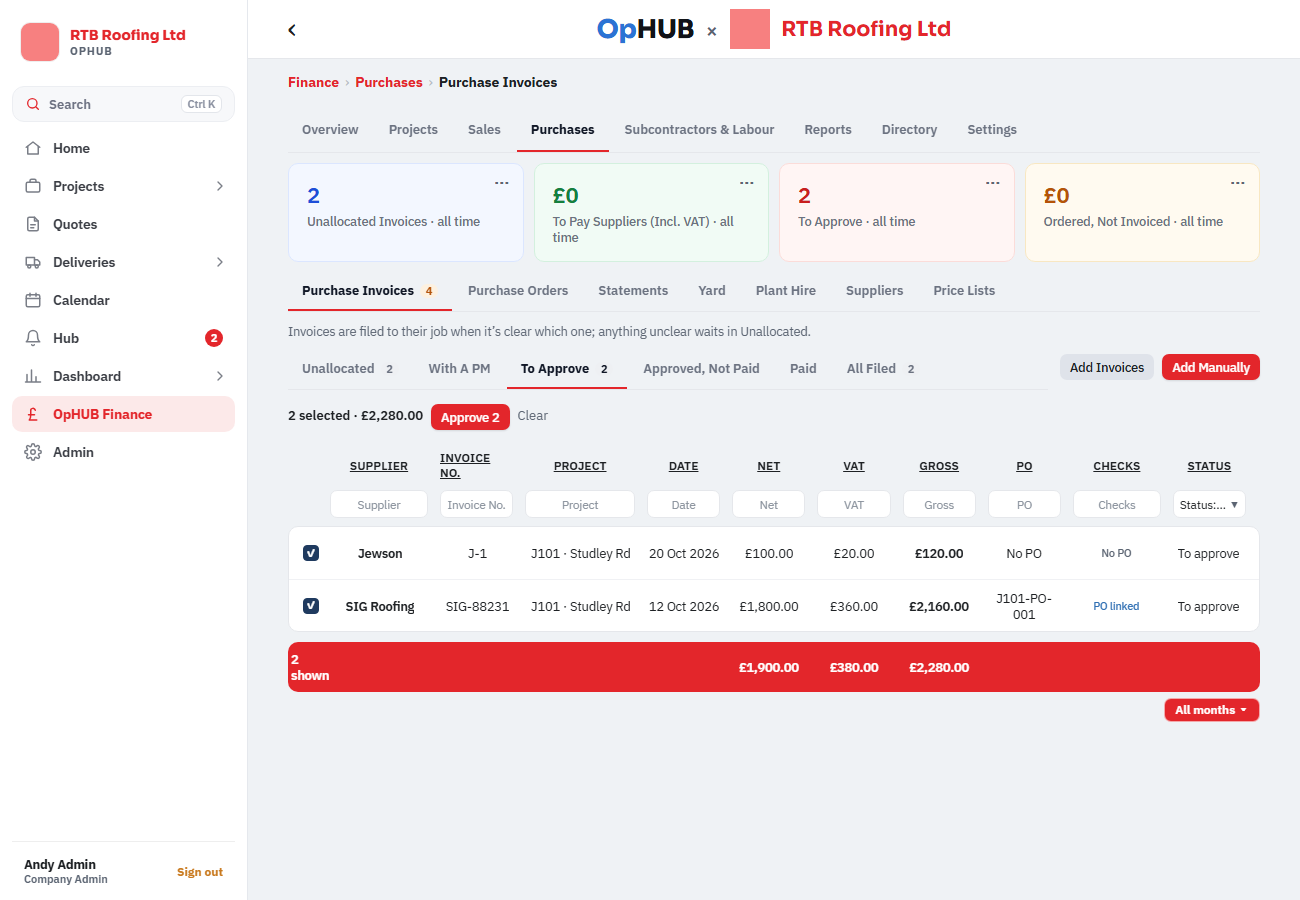
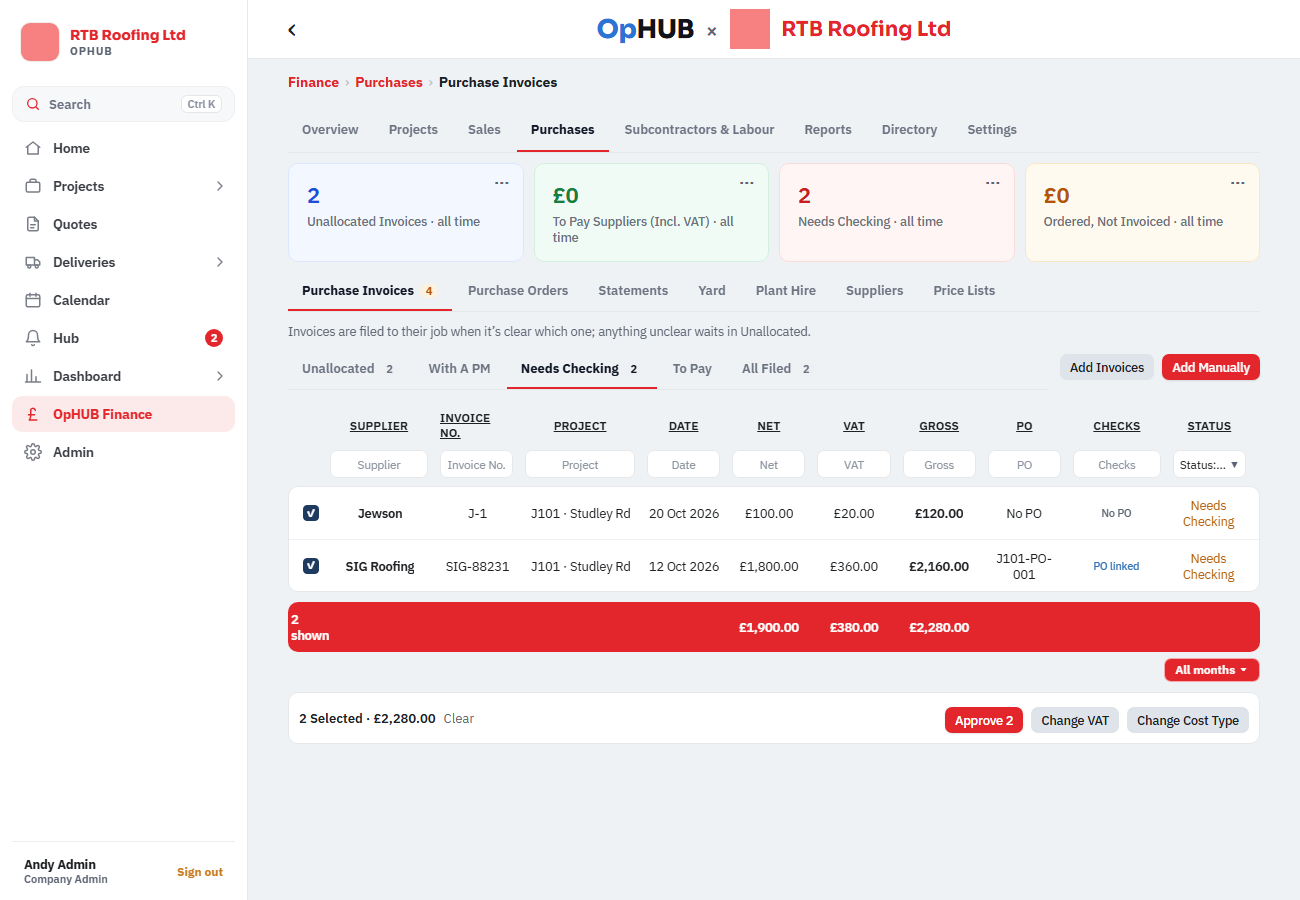
Purchase invoices (Andy, 5 Nov): no Paid tab; Status says Paid (Statement) once the invoice is on a reconciled supplier statement; tabs Needs Checking and To Pay; Status words Needs Checking / Query / Approved (Auto) / Paid. Tick boxes on every filed list, no Select All until one is ticked, then a b
Claude-Session: https://claude.ai/code/session_012KhfNvBEbifMJmPdX7yZfp

diff --git a/app-native/src/components/FinPurchases.tsx b/app-native/src/components/FinPurchases.tsx
@@ -1,5 +1,5 @@
 // Purchases lists (9219b renderFinPurchases): purchase orders, purchase
-// invoices (unallocated / with a PM / to approve / approved not paid / paid),
+// invoices (unallocated / with a PM / needs checking / to pay / all filed; paid shows in Status),
 // plant hire and suppliers — for the company or one project (siteId).
 // Inbox items are NOT read or filed automatically here while the Finance
 // trial is on (no inbox processing).
@@ -19,13 +19,13 @@ import { chooseAction, confirmAsk, useToast } from '@/components/toast';
 import { Button, Empty, Muted } from '@/components/ui';
 import { askDate } from '@/components/DateField';
 import * as DocumentPicker from 'expo-document-picker';
-import { fdb, selectAll } from '@/data/finance';
+import { fdb, selectAll, useFinSettings } from '@/data/finance';
 import { supabase } from '@/lib/supabase';
 import { setPinvPaid, setPinvStatus } from '@/data/finPurchase';
 import { useSites } from '@/data/sites';
 import { useAuth } from '@/lib/auth';
-import { PI_STATUS, poInvoiced } from '@/lib/rules/finBook';
-import { fdate, FIN_TRIAL_MSG, finBlocked, jobTag, money, plantCost, round2, today } from '@/lib/rules/finance';
+import { COST_CATS, PI_STATUS, poInvoiced } from '@/lib/rules/finBook';
+import { fdate, FIN_TRIAL_MSG, finBlocked, jobTag, money, plantCost, round2, today, vatList } from '@/lib/rules/finance';
 import { monthLabel, monthOf, monthsIn, valueTest } from '@/lib/rules/finFilters';
 import { base, radius, useDesk } from '@/theme/theme';
 
@@ -83,16 +83,26 @@ export function usePurchases(orgId: string | null | undefined, siteId?: string) 
     queryKey: ['finPurchases', orgId, siteId || ''], enabled: !!orgId,
     queryFn: async () => {
       const f = (q: Parameters<Parameters<typeof selectAll>[2]>[0]) => (siteId ? q.eq('site_id', siteId) : q.eq('org_id', orgId as string));
-      const [pinvs, pos, inbox, hires, suppliers] = await Promise.all([
+      const [pinvs, pos, inbox, hires, suppliers, stmts] = await Promise.all([
         selectAll<Row>('purchase_invoices', '*', f), selectAll<Row>('purchase_orders', '*', f),
         selectAll<Row>('fin_inbox', 'id,site_id,received_at,from_email,subject,extracted,stage,query_reason,comments,status,purchase_invoice_id,file_name', (q) => f(q).or('status.eq.new,and(status.eq.filed,purchase_invoice_id.is.null)')),
         selectAll<Row>('fin_plant_hires', '*', f), selectAll<Row>('suppliers', 'id,name,email', (q) => q.eq('org_id', orgId as string)),
+        selectAll<Row>('fin_statements', 'id,status,statement_date,reconciled_at,lines', (q) => q.eq('org_id', orgId as string).eq('status', 'reconciled')),
       ]);
+      // Paid when the supplier's statement it is on has been reconciled (Andy, 5 Nov 2026): no need to mark each one paid.
+      const onStmt: Record<string, string> = {};
+      stmts.forEach((st) => ((st.lines as Row[] | null) || []).forEach((l) => { if (l.match && !l.ignore && !String(l.match).startsWith('in:')) onStmt[l.match] = String(st.statement_date || String(st.reconciled_at || '').slice(0, 10)); }));
+      pinvs.forEach((p) => { if (!p.paid_on && onStmt[p.id]) p.stmt_paid = onStmt[p.id]; });
       return { pinvs: pinvs.sort((a, b) => String(b.invoice_date || '').localeCompare(String(a.invoice_date || ''))), pos: pos.sort((a, b) => String(b.created_at || '').localeCompare(String(a.created_at || ''))), inbox, hires, suppliers };
     },
   });
 }
 
+/** Paid by hand, or on a supplier statement that has been reconciled (Andy, 5 Nov 2026). */
+const isPaid = (i: Row) => !!i.paid_on || !!i.stmt_paid;
+/** The Status words (Andy, 5 Nov 2026): Needs Checking, Query, Approved (Auto when it approved itself), Paid. */
+const piWord = (i: Row) => (isPaid(i) ? (i.paid_on ? 'Paid' : 'Paid (Statement)') : i.status === 'to_approve' ? 'Needs Checking' : i.status === 'approved' && i.auto_approved ? 'Approved (Auto)' : PI_STATUS[i.status] || i.status);
+const piTone = (i: Row) => (isPaid(i) ? '#1E7A43' : i.status === 'query' ? '#C0392B' : i.status === 'to_approve' ? '#B35A00' : undefined);
 export function PurchasesLists({ tab, siteId, f: f0 }: { tab: 'orders' | 'invoices' | 'plant' | 'suppliers' | 'all'; siteId?: string; f?: string }) {
   const { me } = useAuth();
   const { data: sites = [] } = useSites();
@@ -121,6 +131,7 @@ export function PurchasesLists({ tab, siteId, f: f0 }: { tab: 'orders' | 'invoic
   });
   // Tick several to approve, or to mark paid (9219g finPiBulkApprove / finPiBulkPaid).
   const [picks, setSel] = useState<Set<string>>(new Set());
+  const { data: fset } = useFinSettings(me?.org_id);
   const toast = useToast();
   const qc = useQueryClient();
   const [upBusy, setUpBusy] = useState(false);
@@ -235,11 +246,11 @@ export function PurchasesLists({ tab, siteId, f: f0 }: { tab: 'orders' | 'invoic
   if (tab === 'invoices') {
     // Not read yet (uploaded or emailed, and while Finance is on trial nothing is read) count as unallocated too, to file by hand.
     const needJob = data.inbox.filter((i) => i.stage !== 'with_pm'), withPm = data.inbox.filter((i) => i.stage === 'with_pm');
-    const toApprove = data.pinvs.filter((i) => ['to_approve', 'query'].includes(i.status)), unpaid = data.pinvs.filter((i) => i.status === 'approved' && !i.paid_on);
-    const F: Record<string, (i: Row) => boolean> = { approve: (i) => ['to_approve', 'query'].includes(i.status), unpaid: (i) => i.status === 'approved' && !i.paid_on, paid: (i) => !!i.paid_on, all: () => true };
+    const toApprove = data.pinvs.filter((i) => ['to_approve', 'query'].includes(i.status)), unpaid = data.pinvs.filter((i) => i.status === 'approved' && !isPaid(i));
+    const F: Record<string, (i: Row) => boolean> = { approve: (i) => ['to_approve', 'query'].includes(i.status), unpaid: (i) => i.status === 'approved' && !isPaid(i), all: () => true };
     const cnt: Record<string, number> = { job: needJob.length, pm: withPm.length, approve: toApprove.length, unpaid: unpaid.length };
-    const cur = sel.status[0] || ['job', 'approve', 'pm', 'unpaid'].find((k) => cnt[k]) || 'all';
-    const chips: [string, string, number][] = [['job', 'Unallocated', needJob.length], ['pm', 'With A PM', withPm.length], ['approve', 'To Approve', toApprove.length], ['unpaid', 'Approved, Not Paid', unpaid.length], ['paid', 'Paid', data.pinvs.filter(F.paid).length], ['all', 'All Filed', data.pinvs.length]];
+    const cur = (sel.status[0] === 'paid' ? 'all' : sel.status[0]) || ['job', 'approve', 'pm', 'unpaid'].find((k) => cnt[k]) || 'all';
+    const chips: [string, string, number][] = [['job', 'Unallocated', needJob.length], ['pm', 'With A PM', withPm.length], ['approve', 'Needs Checking', toApprove.length], ['unpaid', 'To Pay', unpaid.length], ['all', 'All Filed', data.pinvs.length]];
     const posBy: Record<string, Row> = {}; data.pos.forEach((p) => { posBy[p.id] = p; });
     const checks = (i: Row): [string, string][] => {
       const po = posBy[i.po_id], out: [string, string][] = [];
@@ -272,7 +283,7 @@ export function PurchasesLists({ tab, siteId, f: f0 }: { tab: 'orders' | 'invoic
           <>
             {(() => {
               const list = sortBy(data.pinvs.filter(F[cur]).filter(fOK).filter((i) => hit(i.supplier_name, i.invoice_no, jobTag(site(i.site_id)), posBy[i.po_id]?.number)), 'invoice_date', 'total');
-              const bulk = cur === 'approve' || cur === 'unpaid', picked = list.filter((i) => picks.has(i.id));
+              const bulk = true, picked = list.filter((i) => picks.has(i.id));
               const tick = (i: Row) => <Pressable hitSlop={8} accessibilityRole="checkbox" accessibilityState={{ checked: picks.has(i.id) }} onPress={() => setSel((x) => { const n = new Set(x); if (n.has(i.id)) n.delete(i.id); else n.add(i.id); return n; })} style={{ width: 16, height: 16, borderRadius: 4, borderWidth: 1.5, borderColor: picks.has(i.id) ? base.blue : '#c3c8d0', backgroundColor: picks.has(i.id) ? base.blue : '#fff', alignItems: 'center', justifyContent: 'center', alignSelf: 'center' }}>{picks.has(i.id) && <Text style={{ color: '#fff', fontSize: 11, fontWeight: '700', lineHeight: 13 }}>✓</Text>}</Pressable>;
               const refresh = () => { setSel(new Set()); ['finPurchases', 'finBook', 'finOverview', 'finPo'].forEach((k) => void qc.invalidateQueries({ queryKey: [k] })); };
               const approveAll = async () => {
@@ -285,20 +296,45 @@ export function PurchasesLists({ tab, siteId, f: f0 }: { tab: 'orders' | 'invoic
               const paidAll = async () => {
                 const d = await askDate(`Paid on which date? (${picked.length} invoice${picked.length === 1 ? '' : 's'})`); if (d == null) return;
                 const date = d || today();
-                const rows = picked.filter((i) => i.status === 'approved'); if (!rows.length) { toast('Only approved invoices can be marked paid.'); return; }
+                const rows = picked.filter((i) => i.status === 'approved' && !isPaid(i)); if (!rows.length) { toast('Only approved invoices that aren’t paid yet can be marked paid.'); return; }
                 let ok = 0; for (const i of rows) if (await setPinvPaid(i.id, date)) ok++;
                 toast(`${ok} marked paid`); refresh();
               };
-              const bulkBar = bulk && picked.length > 0 ? (
-                <View style={{ flexDirection: 'row', flexWrap: 'wrap', alignItems: 'center', gap: 8, marginBottom: 10 }}>
-                  <Text style={{ fontWeight: '600', color: base.ink, fontSize: 13 }}>{picked.length} selected · {money(picked.reduce((t, i) => t + Number(i.total || 0), 0))}</Text>
-                  {cur === 'approve' ? <Button small title={`Approve ${picked.length}`} onPress={() => void approveAll()} /> : <Button small title={`Mark ${picked.length} Paid`} onPress={() => void paidAll()} />}
+              // Change several at once (Andy, 5 Nov 2026): VAT and cost type. Anything already in Xero is left alone.
+              const editable = (rows: Row[]) => { const ok = rows.filter((i) => !i.xero_id), skip = rows.length - ok.length; if (skip) toast(`${skip} already in Xero — change ${skip === 1 ? 'it' : 'them'} in Xero.`); return ok; };
+              const vatAll = async () => {
+                const rates = vatList(fset).filter((r) => r.active);
+                const k = await chooseAction(`VAT for ${picked.length} invoice${picked.length === 1 ? '' : 's'}`, rates.map((r) => ({ key: r.code, label: r.name })));
+                const r = rates.find((x) => x.code === k); if (!r) return;
+                let ok = 0; const rows = editable(picked);
+                for (const i of rows) {
+                  const vat = r.rc ? 0 : round2(Number(i.net || 0) * Number(r.rate || 0) / 100);
+                  if ((await fdb.from('purchase_invoices').update({ vat, total: round2(Number(i.net || 0) + vat) } as never).eq('id', i.id).select('id')).data?.length) ok++;
+                }
+                toast(ok === rows.length ? `VAT changed on ${ok}` : `VAT changed on ${ok} of ${rows.length}`); refresh();
+              };
+              const costAll = async () => {
+                const k = await chooseAction(`Cost type for ${picked.length} invoice${picked.length === 1 ? '' : 's'}`, Object.entries(COST_CATS).filter(([c]) => c !== 'labour').map(([key, label]) => ({ key, label }))); if (!k) return;
+                let ok = 0; const rows = editable(picked);
+                for (const i of rows) if ((await fdb.from('purchase_invoices').update({ cost_code: k } as never).eq('id', i.id).select('id')).data?.length) ok++;
+                toast(ok === rows.length ? `Cost type changed on ${ok}` : `Cost type changed on ${ok} of ${rows.length}`); refresh();
+              };
+              const waiting = picked.filter((i) => ['to_approve', 'query'].includes(i.status)).length, payable = picked.filter((i) => i.status === 'approved' && !isPaid(i)).length;
+              // The bulk edit bar sits under the list and only shows once something is ticked; Select All is in it.
+              const bulkBar = picked.length > 0 ? (
+                <View style={{ flexDirection: 'row', flexWrap: 'wrap', alignItems: 'center', gap: 8, marginTop: 10, padding: 10, backgroundColor: '#fff', borderWidth: 1, borderColor: '#e5e7eb', borderRadius: 10 }}>
+                  <Text style={{ fontWeight: '600', color: base.ink, fontSize: 13 }}>{picked.length} Selected · {money(picked.reduce((t, i) => t + Number(i.total || 0), 0))}</Text>
                   {picked.length < list.length && <Pressable onPress={() => setSel(new Set(list.map((i) => i.id)))}><Text style={{ color: base.blue, fontWeight: '500', fontSize: 13 }}>Select All ({list.length})</Text></Pressable>}
                   <Pressable onPress={() => setSel(new Set())}><Text style={{ color: base.slate, fontSize: 13 }}>Clear</Text></Pressable>
+                  <View style={{ flex: 1 }} />
+                  {waiting > 0 && <Button small title={`Approve ${waiting}`} onPress={() => void approveAll()} />}
+                  <Button small kind="ghost" title="Change VAT" onPress={() => void vatAll()} />
+                  <Button small kind="ghost" title="Change Cost Type" onPress={() => void costAll()} />
+                  {payable > 0 && <Button small kind="ghost" title={`Mark ${payable} Paid`} onPress={() => void paidAll()} />}
                 </View>
-              ) : bulk && list.length > 1 ? <Pressable onPress={() => setSel(new Set(list.map((i) => i.id)))} style={{ marginBottom: 10 }}><Text style={{ color: base.blue, fontWeight: '500', fontSize: 13 }}>Select All</Text></Pressable> : null;
+              ) : null;
               if (desk && list.length) return (
-                <>{bulkBar}<FinTable rows={list} keyOf={(i) => i.id} onRow={(i) => router.push(`/fin/pinv/${i.id}` as never)}
+                <><FinTable rows={list} keyOf={(i) => i.id} onRow={(i) => router.push(`/fin/pinv/${i.id}` as never)}
                   cols={[
                     ...(bulk ? [{ k: 'tick', l: '', flex: 0.2, min: 28, noSort: true, render: (i: Row) => tick(i) }] : []),
                     { k: 'sup', l: 'Supplier', flex: 1.3, min: 110, render: (i: Row) => <Cell bold>{i.supplier_name || 'Supplier'}</Cell> },
@@ -310,14 +346,14 @@ export function PurchasesLists({ tab, siteId, f: f0 }: { tab: 'orders' | 'invoic
                     { k: 't', l: 'Gross', min: 72, total: (l: Row[]) => money(l.reduce((t, i) => t + Number(i.total || 0), 0)), render: (i: Row) => <Cell bold>{money(i.total)}</Cell> },
                     { k: 'po', l: 'PO', min: 70, render: (i: Row) => <Cell>{posBy[i.po_id] ? posBy[i.po_id].number : 'No PO'}</Cell> },
                     { k: 'ch', l: 'Checks', flex: 1.2, min: 92, render: (i: Row) => <View style={{ alignItems: 'center', gap: 2 }}>{checks(i).map(([t, c]) => <Text key={t} style={{ fontSize: 10.5, fontWeight: '500', color: c, textAlign: 'center' }}>{t}</Text>)}</View> },
-                    { k: 's', l: 'Status', min: 72, noSort: true, choices: ['To approve', 'Approved', 'Query', 'Rejected', 'Paid'], render: (i: Row) => <Cell tone={i.status === 'query' ? '#C0392B' : undefined}>{i.paid_on ? 'Paid' : PI_STATUS[i.status] || i.status}</Cell> },
+                    { k: 's', l: 'Status', min: 84, noSort: true, choices: ['Needs Checking', 'Query', 'Approved', 'Paid', 'Rejected'], render: (i: Row) => <Cell tone={piTone(i)}>{piWord(i)}</Cell> },
                   ]}
-                  footLabel={(list) => `${list.length} shown`} footRight={monthPick} /></>
+                  footLabel={(list) => `${list.length} shown`} footRight={monthPick} />{bulkBar}</>
               );
               return list.length ? (
                 <>
+                  {list.map((i) => <View key={i.id} style={{ flexDirection: 'row', alignItems: 'center', gap: 6 }}>{bulk && tick(i)}<View style={{ flex: 1 }}><FinRow compact left={i.invoice_no || '—'} title={i.supplier_name || 'Supplier'} sub={[siteId ? '' : jobTag(site(i.site_id)), fdate(i.invoice_date), `net ${money(i.net)}`, posBy[i.po_id] ? `PO ${posBy[i.po_id].number}` : 'No PO', piWord(i), i.query_note ? `⚠ ${i.query_note}` : ''].filter(Boolean).join(' · ')} right={money(i.total)} tone={i.status === 'query' ? '#C0392B' : undefined} onPress={() => router.push(`/fin/pinv/${i.id}` as never)} /></View></View>)}
                   {bulkBar}
-                  {list.map((i) => <View key={i.id} style={{ flexDirection: 'row', alignItems: 'center', gap: 6 }}>{bulk && tick(i)}<View style={{ flex: 1 }}><FinRow compact left={i.invoice_no || '—'} title={i.supplier_name || 'Supplier'} sub={[siteId ? '' : jobTag(site(i.site_id)), fdate(i.invoice_date), `net ${money(i.net)}`, posBy[i.po_id] ? `PO ${posBy[i.po_id].number}` : 'No PO', i.paid_on ? 'Paid' : PI_STATUS[i.status] || i.status, i.query_note ? `⚠ ${i.query_note}` : ''].filter(Boolean).join(' · ')} right={money(i.total)} tone={i.status === 'query' ? '#C0392B' : undefined} onPress={() => router.push(`/fin/pinv/${i.id}` as never)} /></View></View>)}
                   {list.length > 1 && <Muted>Total ({list.length}): net {money(list.reduce((t, i) => t + Number(i.net || 0), 0))} · VAT {money(list.reduce((t, i) => t + Number(i.vat || 0), 0))} · gross {money(list.reduce((t, i) => t + Number(i.total || 0), 0))}</Muted>}
                 </>
               ) : <Empty>Nothing here.</Empty>;
@@ -382,7 +418,7 @@ export function PurchasesLists({ tab, siteId, f: f0 }: { tab: 'orders' | 'invoic
   }
   const by: Record<string, { name: string; email: string; spend: number; owed: number; n: number }> = {};
   data.suppliers.forEach((s) => { by[s.name] = { name: s.name, email: s.email || '', spend: 0, owed: 0, n: 0 }; });
-  live.forEach((i) => { const k = i.supplier_name || 'Unknown', r = (by[k] = by[k] || { name: k, email: '', spend: 0, owed: 0, n: 0 }); r.n++; if (i.status === 'approved') r.spend += Number(i.net || 0); if (i.status === 'approved' && !i.paid_on) r.owed += Number(i.total || 0); });
+  live.forEach((i) => { const k = i.supplier_name || 'Unknown', r = (by[k] = by[k] || { name: k, email: '', spend: 0, owed: 0, n: 0 }); r.n++; if (i.status === 'approved') r.spend += Number(i.net || 0); if (i.status === 'approved' && !isPaid(i)) r.owed += Number(i.total || 0); });
   const list = Object.values(by).sort((a, b) => b.spend - a.spend || a.name.localeCompare(b.name)).filter((r) => hit(r.name, r.email));
   return (
     <View>
@@ -407,14 +443,14 @@ export function PurchasesStats() {
   const pJ = period('p_job', 'all'), pU = period('p_pay', 'all'), pA = period('p_appr', 'all'), pC = period('p_ord', 'all');
   const live = data.pinvs.filter((i) => i.status !== 'rejected');
   const needJob = data.inbox.filter((i) => i.stage !== 'with_pm' && inPeriod(i.received_at, pJ)).length; // unread ones too, as the list (4 Nov 2026)
-  const unpaid = data.pinvs.filter((i) => i.status === 'approved' && !i.paid_on && inPeriod(i.invoice_date, pU)).reduce((t, i) => t + Number(i.total || 0), 0);
+  const unpaid = data.pinvs.filter((i) => i.status === 'approved' && !isPaid(i) && inPeriod(i.invoice_date, pU)).reduce((t, i) => t + Number(i.total || 0), 0);
   const toApprove = data.pinvs.filter((i) => ['to_approve', 'query'].includes(i.status) && inPeriod(i.invoice_date, pA)).length;
   const ordered = round2(data.pos.filter((p) => p.status === 'open' && p.value != null && inPeriod(p.created_at, pC)).reduce((t, p) => t + Math.max(0, Number(p.value) - poInvoiced(p, live)), 0));
   const to = (tab: string, f: string) => () => router.setParams({ tab, f });
   return (
     <View style={{ flexDirection: 'row', flexWrap: 'wrap', gap: 10, marginBottom: 10 }}>
       <FinStat tone="blue" v={String(needJob)} label={`Unallocated Invoices · ${pJ.label}`} onPress={to('invoices', 'job')} onMenu={() => void pick('p_job', 'all')} /><FinStat tone="green" v={money(unpaid, 0)} label={`To Pay Suppliers (Incl. VAT) · ${pU.label}`} onPress={to('invoices', 'unpaid')} onMenu={() => void pick('p_pay', 'all')} />
-      <FinStat tone="red" v={String(toApprove)} label={`To Approve · ${pA.label}`} onPress={to('invoices', 'approve')} onMenu={() => void pick('p_appr', 'all')} /><FinStat tone="amber" v={money(ordered, 0)} label={`Ordered, Not Invoiced · ${pC.label}`} onPress={to('orders', 'open')} onMenu={() => void pick('p_ord', 'all')} />
+      <FinStat tone="red" v={String(toApprove)} label={`Needs Checking · ${pA.label}`} onPress={to('invoices', 'approve')} onMenu={() => void pick('p_appr', 'all')} /><FinStat tone="amber" v={money(ordered, 0)} label={`Ordered, Not Invoiced · ${pC.label}`} onPress={to('orders', 'open')} onMenu={() => void pick('p_ord', 'all')} />
     </View>
   );
 }

diff --git a/app-native/src/app/(app)/fin/settings.tsx b/app-native/src/app/(app)/fin/settings.tsx
@@ -60,14 +60,16 @@ export default function FinSettings() {
   const s = (st || {}) as Row;
   const s0 = s;
   const canEditCosts = me.role === 'admin' && isFinanceUser(me, org);
-  const initial = { ...s, po_enabled: !!s.po_enabled, po_vat_default: String(s.po_vat_default || '20'), auto_job_numbers: !!o?.auto_job_numbers, job_number_prefix: o?.job_number_prefix || '', next_job_number: o?.next_job_number ?? '' };
+  const initial = { ...s, po_enabled: !!s.po_enabled, pi_auto_approve: s.pi_auto_approve !== false, po_vat_default: String(s.po_vat_default || '20'), auto_job_numbers: !!o?.auto_job_numbers, job_number_prefix: o?.job_number_prefix || '', next_job_number: o?.next_job_number ?? '' };
   const xs = xero?.data, xErr = xero?.error;
-  const EDIT_TITLE: Record<string, string> = { nums: 'Project numbers', po: 'Purchase orders', vat: 'Default VAT', inv: 'Invoice numbers', def: 'Defaults for new projects', ohp: 'Company overheads (OHP)', bill: 'On your invoices' };
+  const EDIT_TITLE: Record<string, string> = { nums: 'Project numbers', po: 'Purchase orders', pi: 'Purchase invoices', vat: 'Default VAT', inv: 'Invoice numbers', def: 'Defaults for new projects', ohp: 'Company overheads (OHP)', bill: 'On your invoices' };
   const EDIT_FIELDS: Record<string, Field[]> = {
     nums: [{ k: 'auto_job_numbers', label: 'Number new projects automatically', kind: 'check' }, { k: 'job_number_prefix', label: 'Project number prefix', half: true }, { k: 'next_job_number', label: 'Next project number', kind: 'number', half: true }],
     inv: [{ k: 'invoice_prefix', label: 'Invoice prefix', half: true }, { k: 'next_invoice_number', label: 'Next invoice number', kind: 'number', half: true }],
     def: [{ k: 'default_retention_pct', label: 'Default retention %', kind: 'number', half: true }, { k: 'app_reminder_day', label: 'Application date (day of month)', kind: 'day', half: true }, { k: 'default_due_days', label: 'Payment due (days)', kind: 'number', half: true }, { k: 'default_final_days', label: 'Final date (days)', kind: 'number', half: true }],
     po: [{ k: 'po_enabled', label: 'Raise a PO for every PM’s order', kind: 'check' }, { k: 'po_vat_default', label: 'VAT on new PO lines', kind: 'choice', options: vatList(s).filter((x) => x.active || x.code === String(s.po_vat_default || '20')).map((x) => [x.code, x.name] as [string, string]) }],
+    // Approve by themselves when nothing looks wrong (Andy, 5 Nov 2026). Blank counts as on.
+    pi: [{ k: 'pi_auto_approve', label: 'Approve purchase invoices automatically when nothing looks wrong (filed to a project, supplier in your Directory, not over its PO, not a duplicate)', kind: 'check' }],
     vat: [{ k: 'default_vat', label: 'Default VAT', kind: 'choice', options: Object.entries(FIN_VAT_LABEL) }],
     ohp: [{ k: 'ohp_pct', label: 'Company overheads %', kind: 'number' }],
     bill: [{ k: 'company_address', label: 'Company address', kind: 'multiline' }, { k: 'company_vat_no', label: 'VAT number', half: true }, { k: 'company_reg_no', label: 'Company number', half: true }, { k: 'bank_name', label: 'Bank', half: true }, { k: 'bank_account_name', label: 'Account name', half: true }, { k: 'bank_sort_code', label: 'Sort code', half: true }, { k: 'bank_account_no', label: 'Account number', half: true }, { k: 'invoice_footer', label: 'Invoice footer', kind: 'multiline' }, { k: 'contractor_utr', label: 'Contractor UTR (CIS)', half: true }, { k: 'employer_ref', label: 'Employer reference', half: true }],
@@ -83,6 +85,7 @@ export default function FinSettings() {
         ['costs', 'Who can see material costs', 'eye', []],
         ['nums', 'Project numbers', 'hash', [['Project numbers', o?.auto_job_numbers ? `Automatic · next ${o.job_number_prefix || ''}${o.next_job_number ?? ''}` : 'Typed by hand']]],
         ['po', 'Purchase orders', 'reports', [['Raise a PO for every PM’s order', s.po_enabled ? 'On' : 'Off'], ['VAT on new PO lines', vatList(s).find((x) => x.code === String(s.po_vat_default || '20'))?.name || String(s.po_vat_default || '20')]]],
+        ['pi', 'Purchase invoices', 'reports', [['Approve automatically when nothing looks wrong', s.pi_auto_approve === false ? 'Off' : 'On']]],
         ['vat', 'VAT rates', 'percent', [['Default VAT', FIN_VAT_LABEL[s.default_vat] || '—']]],
         ['inv', 'Invoice numbers', 'list', [['Next invoice number', `${s.invoice_prefix || ''}${s.next_invoice_number ?? ''}`]]],
         ['def', 'Defaults for new projects', 'gear', [['Retention', `${s.default_retention_pct ?? 5}%`], ['Payment terms', `${s.default_due_days ?? 30} days · final ${s.default_final_days ?? 14} days`], ['Application date', s.app_reminder_day ? `${s.app_reminder_day} of each month` : 'Not set']]],
@@ -173,6 +176,7 @@ export default function FinSettings() {
               if (appDay !== null && (isNaN(appDay) || appDay < 1 || appDay > 31)) return 'Application date must be a day of the month, 1 to 31.';
               Object.assign(body, { default_retention_pct: ret, app_reminder_day: appDay, default_due_days: due === null || isNaN(due) ? 30 : due, default_final_days: fin === null || isNaN(fin) ? 14 : fin });
             }
+            if (edit === 'pi') body.pi_auto_approve = !!v.pi_auto_approve;
             if (edit === 'po') Object.assign(body, { po_enabled: !!v.po_enabled, po_vat_default: String(v.po_vat_default || '20') });
             if (edit === 'vat') body.default_vat = v.default_vat || 'standard';
             if (edit === 'ohp') { const oh = num(v.ohp_pct); if (oh === null || isNaN(oh) || oh < 0 || oh > 100) return 'Overheads must be between 0 and 100%.'; body.ohp_pct = oh; }

diff --git a/tools/test-harness/pinvlist-check.js b/tools/test-harness/pinvlist-check.js
@@ -1,0 +1,41 @@
+// Purchase invoices (Andy, 5 Nov 2026): tabs Unallocated / With A PM / Needs Checking / To Pay / All Filed (no Paid tab);
+// Status says Paid (Statement) when the invoice is on a reconciled supplier statement; no Select All until one is
+// ticked, then a bulk edit bar under the list (Approve, Change VAT, Change Cost Type, Mark Paid). Fake database only.
+// node pinvlist-check.js
+const {chromium, makeContext} = require('./harness');
+const seed = require('./fresh/seed');
+const check = (ok, what) => { console.log((ok ? 'PASS ' : 'FAIL ') + what); if (!ok) process.exitCode = 1; };
+(async () => {
+  const browser = await chromium.launch(); const errs = [];
+  const {ctx, db} = await makeContext(browser, 'admin', [], {viewport: {width: 1300, height: 900}});
+  seed(db); db.profiles[0].finance_enabled = true; db.profiles[0].howto_dismissed = ['*']; db.organizations[0].has_pm = true;
+  const O = db.organizations[0].id, S1 = '11111111-1111-1111-1111-111111111111';
+  db.purchase_invoices.push({id: 'piA', org_id: O, site_id: S1, supplier_name: 'Jewson', invoice_no: 'J-1', invoice_date: '2026-10-20', net: 100, vat: 20, total: 120, status: 'approved', cost_code: 'materials'});
+  db.purchase_invoices.push({id: 'piB', org_id: O, site_id: S1, supplier_name: 'Jewson', invoice_no: 'J-2', invoice_date: '2026-10-21', net: 200, vat: 40, total: 240, status: 'approved', auto_approved: true, cost_code: 'materials'});
+  db.fin_statements = db.fin_statements || [];
+  db.fin_statements.push({id: 'st1', org_id: O, supplier_name: 'Jewson', statement_date: '2026-10-31', status: 'reconciled', lines: [{id: 'l1', ref: 'J-1', type: 'invoice', amount: 120, match: 'piA', how: 'auto'}]});
+  const page = await ctx.newPage(); page.on('pageerror', (e) => errs.push(e.message));
+  await page.goto('http://localhost:8081/login'); await page.waitForTimeout(4000);
+  await page.fill('input[placeholder="you@yourcompany.co.uk"]', 'a@x.co'); await page.fill('input[type="password"]', 'pw123456');
+  await page.getByText('Sign In', {exact: true}).click(); await page.waitForTimeout(5000);
+  await page.goto('http://localhost:8081/fin/purchases?tab=invoices'); await page.waitForTimeout(5000);
+  const tabs = (await page.getByRole('tab').allInnerTexts()).map((t) => t.replace(/\s+/g, ' '));
+  check(tabs.some((t) => /^Needs Checking/.test(t)) && tabs.some((t) => /^To Pay/.test(t)) && !tabs.some((t) => /^Paid/.test(t)), 'tabs: ' + tabs.slice(-5).join(' · '));
+  await page.getByRole('tab', {name: /All Filed/}).click(); await page.waitForTimeout(800);
+  check(await page.getByText('Paid (Statement)').count() === 1, 'J-1 shows Paid (Statement)');
+  check(await page.getByText('Approved (Auto)').count() === 1, 'J-2 shows Approved (Auto)');
+  check(await page.getByText(/^Select All/).count() === 0, 'no Select All before anything is ticked');
+  await page.getByRole('tab', {name: /To Pay/}).click(); await page.waitForTimeout(800);
+  check(await page.getByText('J-1', {exact: true}).count() === 0 && await page.getByText('J-2', {exact: true}).count() === 1, 'To Pay has J-2 only (J-1 is paid by its statement)');
+  await page.getByRole('checkbox').first().click(); await page.waitForTimeout(500);
+  for (const b of ['Change VAT', 'Change Cost Type']) check(await page.getByText(b, {exact: true}).count() === 1, `bulk bar has ${b}`);
+  check(await page.getByText(/^Mark 1 Paid$/).count() === 1, 'bulk bar has Mark 1 Paid');
+  await page.getByText('Change Cost Type', {exact: true}).click(); await page.waitForTimeout(600);
+  await page.getByText('Plant', {exact: true}).last().click(); await page.waitForTimeout(1500);
+  check(db.purchase_invoices.find((i) => i.id === 'piB').cost_code === 'plant', 'cost type changed in bulk');
+  await page.getByRole('tab', {name: /All Filed/}).click(); await page.waitForTimeout(600);
+  await page.getByRole('checkbox').first().click(); await page.waitForTimeout(500);
+  await page.screenshot({path: 'shots/job/pinvlist-1300.png'});
+  check(!errs.length, `no errors ${errs.slice(0, 2).join(' | ')}`);
+  await browser.close();
+})();

diff --git a/tools/test-harness/pibulk-check.js b/tools/test-harness/pibulk-check.js
@@ -12,8 +12,8 @@ const seed = require('./fresh/seed');
   await page.fill('input[placeholder="you@yourcompany.co.uk"]', 'a@x.co'); await page.fill('input[type="password"]', 'pw123456');
   await page.getByText('Sign In', {exact:true}).click(); await page.waitForTimeout(5000);
   await page.goto('http://localhost:8081/fin/purchases?tab=invoices'); await page.waitForTimeout(5000);
-  const ta = page.getByText(/^To Approve/i); if(await ta.count()) await ta.first().click(); await page.waitForTimeout(800);
-  await page.getByText('Select All', {exact:true}).click(); await page.waitForTimeout(500); // was ☐ Tick all
+  const ta = page.getByText(/^Needs Checking/i); if(await ta.count()) await ta.first().click(); await page.waitForTimeout(800);
+  await page.getByRole('checkbox').first().click(); await page.waitForTimeout(400); await page.getByText(/^Select All/).click(); await page.waitForTimeout(500); // Select All shows once one is ticked (5 Nov)
   await page.screenshot({path:'shots/native_pibulk-1300.png'});
   await page.getByText(/^Approve [0-9]+$/).click(); await page.waitForTimeout(800); // Approve N, then the Yes/No question
   await page.locator('text="Approve" >> visible=true').last().click(); await page.waitForTimeout(4000);

diff --git a/tools/test-harness/finmenus-check.js b/tools/test-harness/finmenus-check.js
@@ -67,7 +67,7 @@ const login = async (page) => {
 
   // Purchases and Subs cards go to their list.
   await open('/fin/purchases');
-  await page.getByText(/^To Approve · /).click(); await page.waitForTimeout(800);
+  await page.getByText(/^Needs Checking · /).click(); await page.waitForTimeout(800);
   check('Tap To Approve', param('tab') === 'invoices' && param('f') === 'approve');
   await open('/fin/subs');
   await page.getByText('Applications To Certify').click(); await page.waitForTimeout(800);
